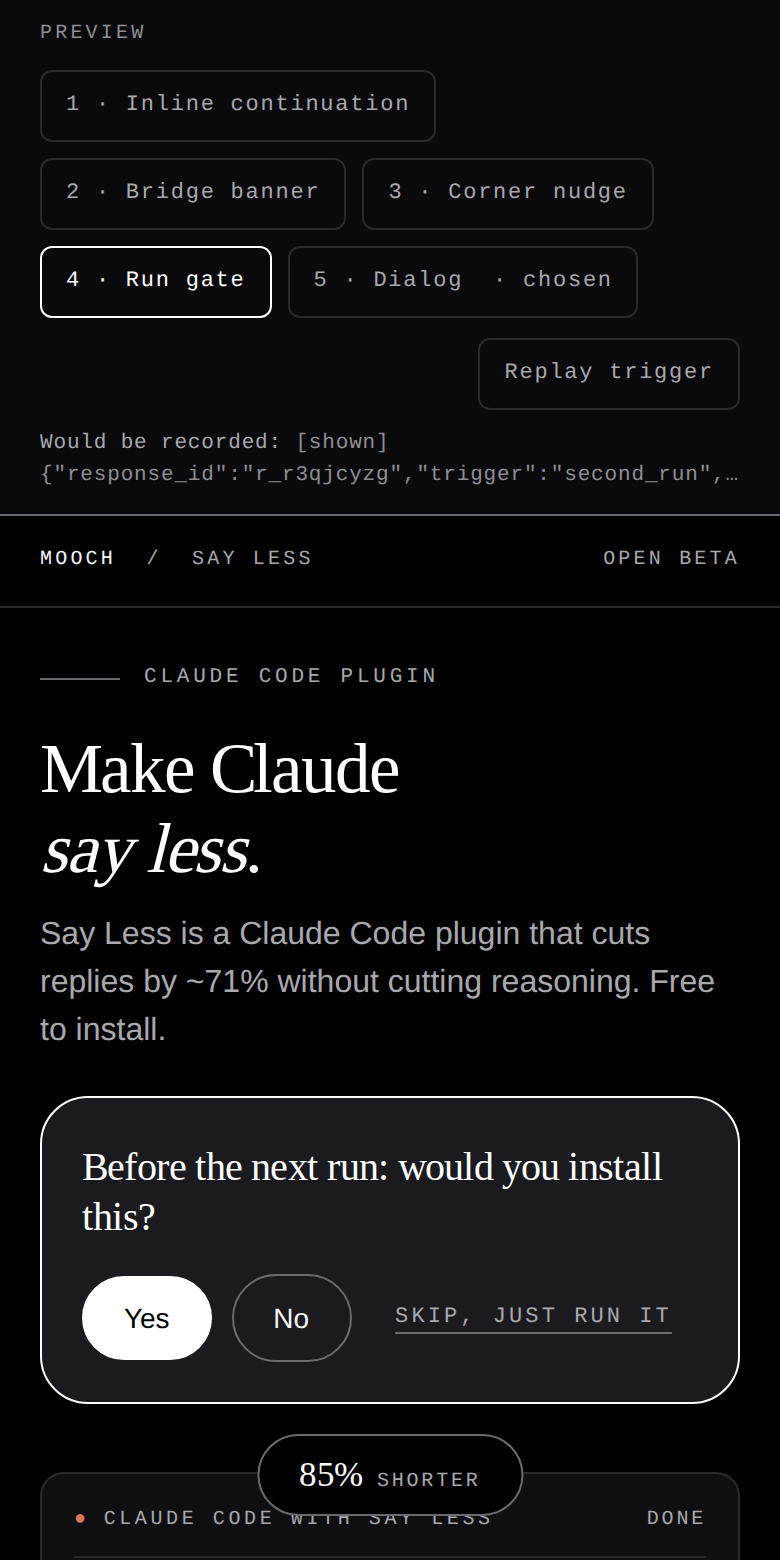
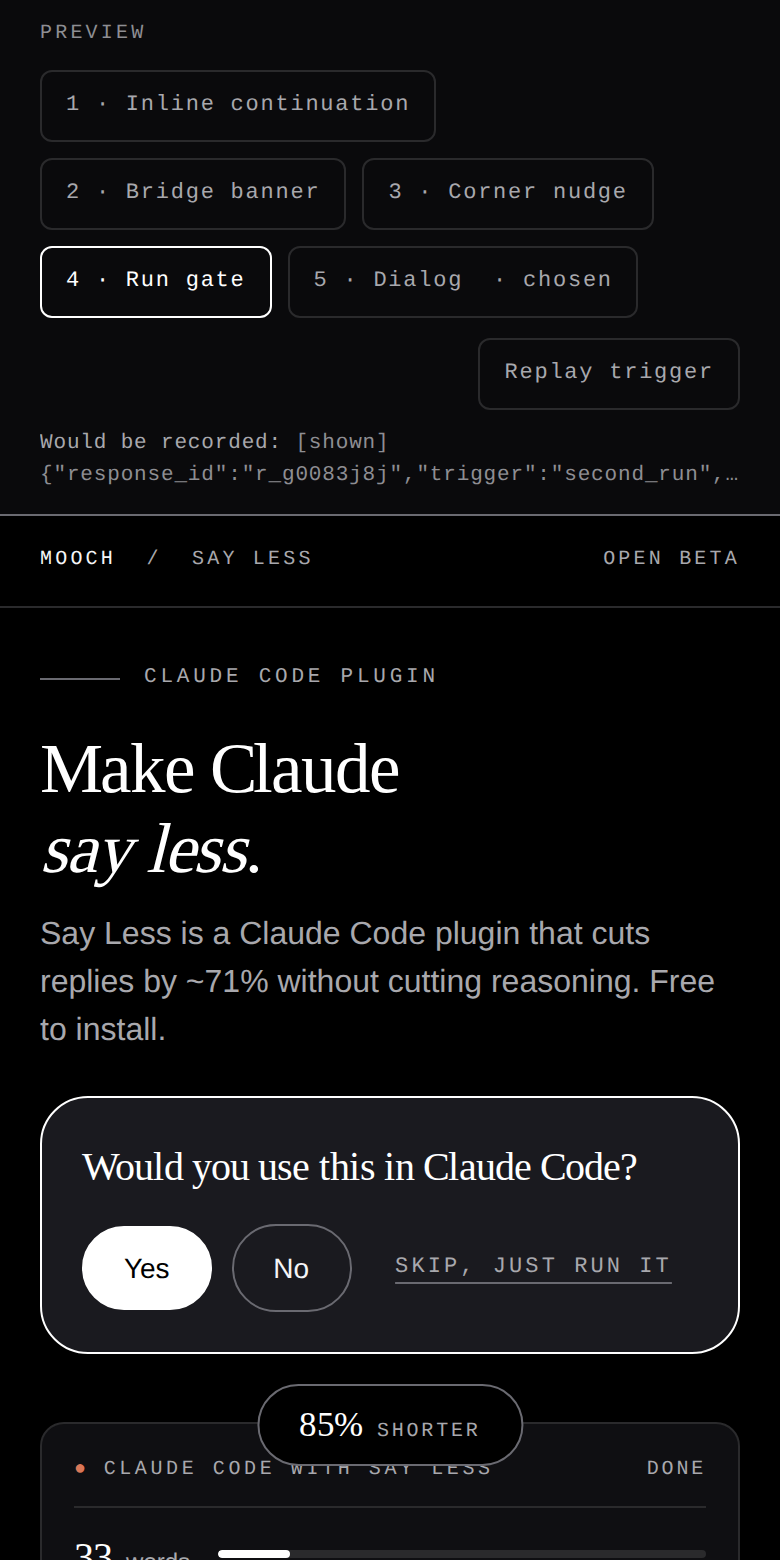
Say Less intercept: drop the word install from the ask
"Install" overstates the work. Adding a Claude Code plugin is two lines
and ten seconds, not a driver and a restart.

- Question: "Would you use this in Claude Code?"
- Section heading: Install Plugin becomes Add to Claude Code
- Reasons follow: "I'd add it, but not right now", "Setting it up feels
  like effort right now"
- Event field: would_install becomes would_use

The copied prompt and the /plugin install command keep the word, which
is fine: the dread is in the ask, not in a line they're pasting.

Changed region(s): [[0.0308, 0.7385, 0.9538, 1.0], [0.3692, 0.2769, 0.4923, 0.3077], [0.9231, 0.9231, 0.9538, 0.9538]]

diff --git a/say-less-intercept-preview.html b/say-less-intercept-preview.html
@@ -340,6 +340,7 @@ body[data-option="5"] .ix-5 { display: block; }
 .ix-2 h2 {
   font-family: var(--serif); font-weight: 400; font-size: clamp(24px, 2.6vw, 32px);
   line-height: 1.05; letter-spacing: -0.02em; color: var(--paper); margin: 0;
+  text-wrap: balance;
 }
 .ix-2 .ix-actions { display: flex; flex-wrap: wrap; align-items: center; gap: 10px; }
 .ix-2 .ix-x { margin-left: auto; }
@@ -381,6 +382,7 @@ body.gated #f { display: none; }
 .ix-4 .gate-q {
   font-family: var(--serif); font-weight: 400; font-size: clamp(24px, 2.8vw, 34px);
   line-height: 1.05; letter-spacing: -0.02em; color: var(--paper); margin: 0;
+  text-wrap: balance;
 }
 .ix-4 .ix-actions { display: flex; flex-wrap: wrap; align-items: center; gap: 10px; margin-top: 18px; }
 .ix-4 .gate-skip {
@@ -420,6 +422,7 @@ body[data-option="5"] .ix-5[data-state="idle"] { display: none !important; }
 .ix-5 h2 {
   font-family: var(--serif); font-weight: 400; font-size: clamp(24px, 2.6vw, 30px);
   line-height: 1.05; letter-spacing: -0.02em; color: var(--paper); margin: 0;
+  text-wrap: balance;
 }
 .ix-5 .ix-x { margin-left: auto; margin-top: -8px; margin-right: -10px; }
 .ix-5 .ix-actions { display: flex; gap: 8px; margin-top: 20px; }
@@ -474,7 +477,7 @@ body[data-option="5"] .ix-5[data-state="idle"] { display: none !important; }
     <div class="ix ix-4" data-ix="4" data-state="idle" data-focus>
       <div class="gate">
         <div class="ix-step on" data-step="ask">
-          <p class="gate-q" id="ix4-q">Before the next run: would you install this?</p>
+          <p class="gate-q" id="ix4-q">Would you use this in Claude Code?</p>
           <div class="ix-actions">
             <button class="pill" type="button" data-answer="yes" aria-describedby="ix4-q">Yes</button>
             <button class="ghost" type="button" data-answer="no" aria-describedby="ix4-q">No</button>
@@ -530,7 +533,7 @@ body[data-option="5"] .ix-5[data-state="idle"] { display: none !important; }
     <div class="ix ix-1" data-ix="1" data-state="idle">
       <div class="ix-step on" data-step="ask">
         <div class="ix-row">
-          <span class="ix-q" id="ix1-q">Would you install this?</span>
+          <span class="ix-q" id="ix1-q">Would you use this in Claude Code?</span>
           <span class="ix-links">
             <button class="ix-link" type="button" data-answer="yes" aria-describedby="ix1-q">Yes</button>
             <button class="ix-link" type="button" data-answer="no" aria-describedby="ix1-q">No</button>
@@ -549,11 +552,11 @@ body[data-option="5"] .ix-5[data-state="idle"] { display: none !important; }
 </section>
 
 <!-- ══ OPTION 2: bridge banner ═══════════════════════════════════════════ -->
-<section class="ix ix-2" data-ix="2" data-state="idle" aria-label="Install intent">
+<section class="ix ix-2" data-ix="2" data-state="idle" aria-label="Would you use this">
   <div class="ix-inner">
     <div class="ix-step on" data-step="ask">
       <div class="ix-head">
-        <h2 id="ix2-q">Would you install this?</h2>
+        <h2 id="ix2-q">Would you use this in Claude Code?</h2>
         <div class="ix-actions">
           <button class="pill" type="button" data-answer="yes" aria-describedby="ix2-q">Yes</button>
           <button class="ghost" type="button" data-answer="no" aria-describedby="ix2-q">No</button>
@@ -579,11 +582,11 @@ body[data-option="5"] .ix-5[data-state="idle"] { display: none !important; }
      keyboard and screen reader users arrive where the scroll went. -->
 <section class="install" id="install" tabindex="-1" aria-labelledby="install-heading">
   <div class="rig">
-    <h2 id="install-heading">Install Plugin</h2>
-    <p>Copy the prompt, paste it into Claude Code.</p>
+    <h2 id="install-heading">Add to Claude Code</h2>
+    <p>Copy the prompt, paste it in.</p>
 
     <div class="install-actions">
-      <button class="pill" type="button" id="copyPill">Copy install prompt</button>
+      <button class="pill" type="button" id="copyPill">Copy the prompt</button>
       <button class="ghost" type="button" id="promptToggle" aria-expanded="false">
         <span class="chev" aria-hidden="true">&#9662;</span> <span class="toggle-label">Show the prompt</span>
       </button>
@@ -606,10 +609,10 @@ body[data-option="5"] .ix-5[data-state="idle"] { display: none !important; }
 </footer>
 
 <!-- ══ OPTION 3: sticky corner nudge ═════════════════════════════════════ -->
-<aside class="ix ix-3" data-ix="3" data-state="idle" aria-label="Install intent">
+<aside class="ix ix-3" data-ix="3" data-state="idle" aria-label="Would you use this">
   <div class="ix-step on" data-step="ask">
     <div class="ix-top">
-      <span class="ix-q" id="ix3-q">Would you install this?</span>
+      <span class="ix-q" id="ix3-q">Would you use this in Claude Code?</span>
       <button class="ix-x" type="button" data-dismiss aria-label="Dismiss">&times;</button>
     </div>
     <div class="ix-actions">
@@ -636,7 +639,7 @@ body[data-option="5"] .ix-5[data-state="idle"] { display: none !important; }
   <div class="card">
     <div class="ix-step on" data-step="ask">
       <div class="ix-top">
-        <h2 id="ix5-q">Would you install this?</h2>
+        <h2 id="ix5-q">Would you use this in Claude Code?</h2>
         <button class="ix-x" type="button" data-dismiss aria-label="Close">&times;</button>
       </div>
       <div class="ix-actions">
@@ -697,8 +700,8 @@ document.getElementById("promptToggle").addEventListener("click", function () {
 /* Ordered by likelihood, comprehension last: by the time this fires the
    tester has already run the tool at least once. */
 var REASONS = [
-  "I'd install, but not right now",
-  "Installing feels like effort right now",
+  "I'd add it, but not right now",
+  "Setting it up feels like effort right now",
   "I'm worried it'll mess things up",
   "I don't understand what it does",
   "Something else"
@@ -722,7 +725,7 @@ function step(ix, name) {
 }
 
 /* Live, this is where the row is written to the Feedback database: on show,
-   with Would install and Reason blank, carrying a client-generated response
+   with Would use and Reason blank, carrying a client-generated response
    ID so the answer patches the same row. */
 function log(event, data) {
   var line = "[" + event + "] " + JSON.stringify(data || {});
@@ -780,7 +783,7 @@ document.querySelectorAll(".ix").forEach(function (ix) {
        Install. Being taken there is the acknowledgement, and a message would
        only stand between them and the thing they just said yes to. */
     if (t.dataset.answer === "yes") {
-      log("answered", { would_install: "Yes" });
+      log("answered", { would_use: "Yes" });
       var install = document.getElementById("install");
       close(ix, install);
       install.scrollIntoView({ behavior: "smooth", block: "start" });
@@ -789,7 +792,7 @@ document.querySelectorAll(".ix").forEach(function (ix) {
       install.classList.add("install-hi");
       return;
     }
-    if (t.dataset.answer === "no") { log("answered", { would_install: "No" }); step(ix, "reasons"); return; }
+    if (t.dataset.answer === "no") { log("answered", { would_use: "No" }); step(ix, "reasons"); return; }
 
     if (t.dataset.reason) {
       var other = ix.querySelector(".ix-other");
@@ -799,14 +802,14 @@ document.querySelectorAll(".ix").forEach(function (ix) {
         other.querySelector("input").focus();
         return;
       }
-      log("answered", { would_install: "No", reason: t.dataset.reason });
+      log("answered", { would_use: "No", reason: t.dataset.reason });
       thanks(ix);
       return;
     }
 
     if (t.hasAttribute("data-other-send")) {
       var input = ix.querySelector("[data-other-input]");
-      log("answered", { would_install: "No", reason: "Something else", note: input.value.trim() });
+      log("answered", { would_use: "No", reason: "Something else", note: input.value.trim() });
       thanks(ix);
     }
   });
